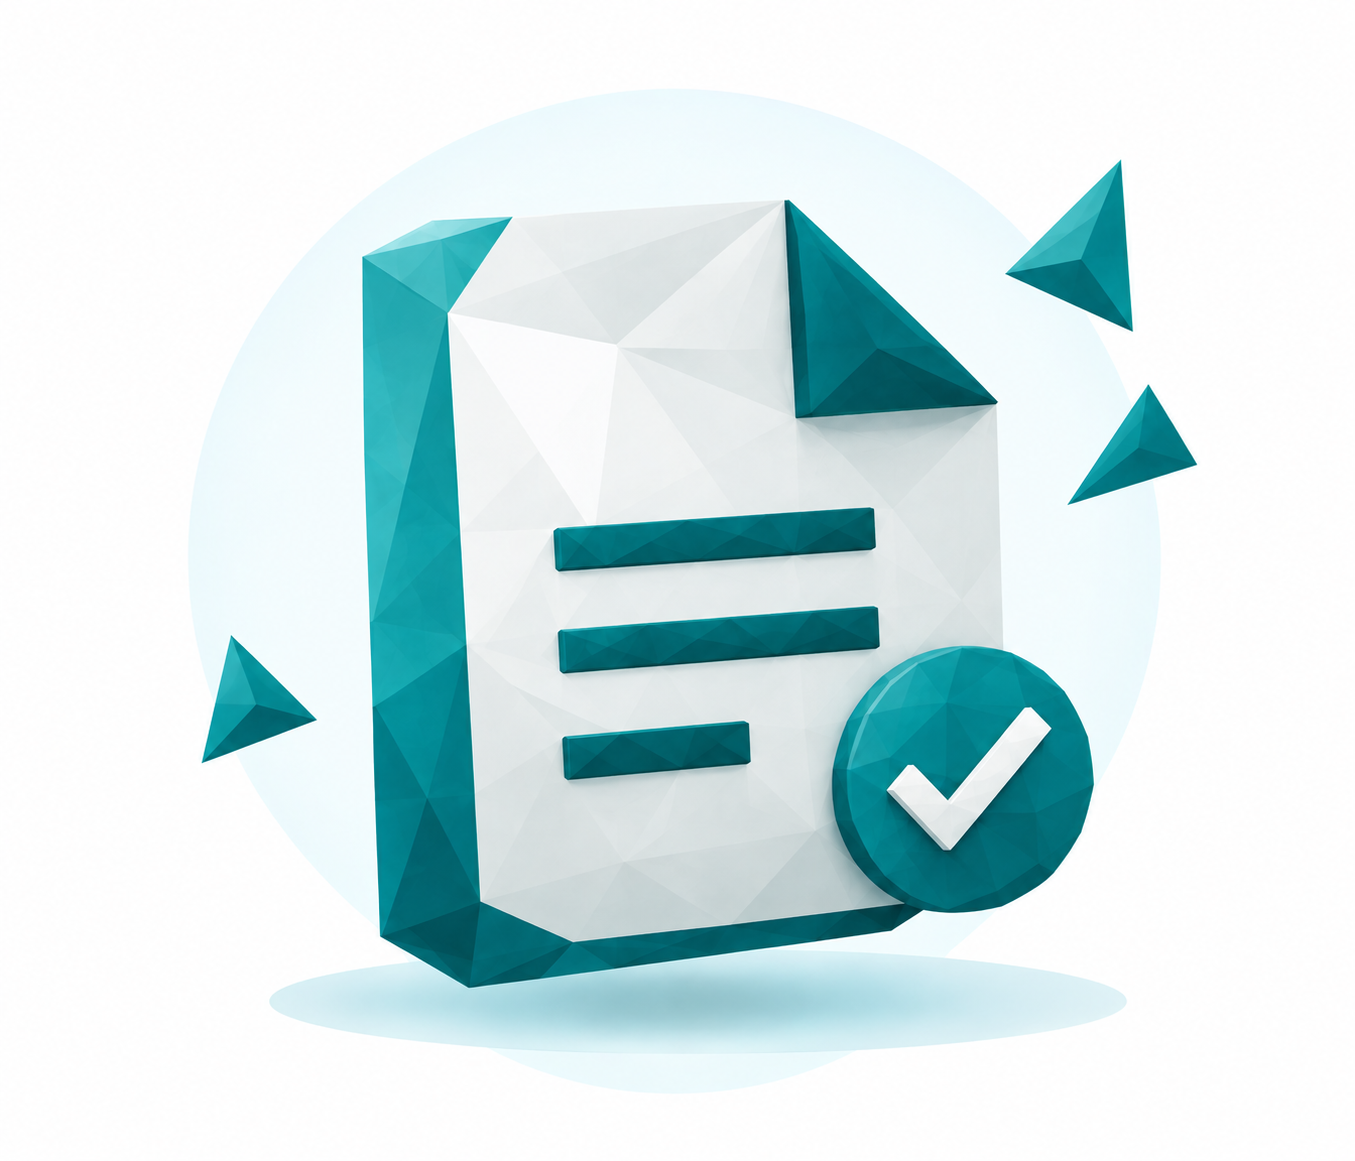
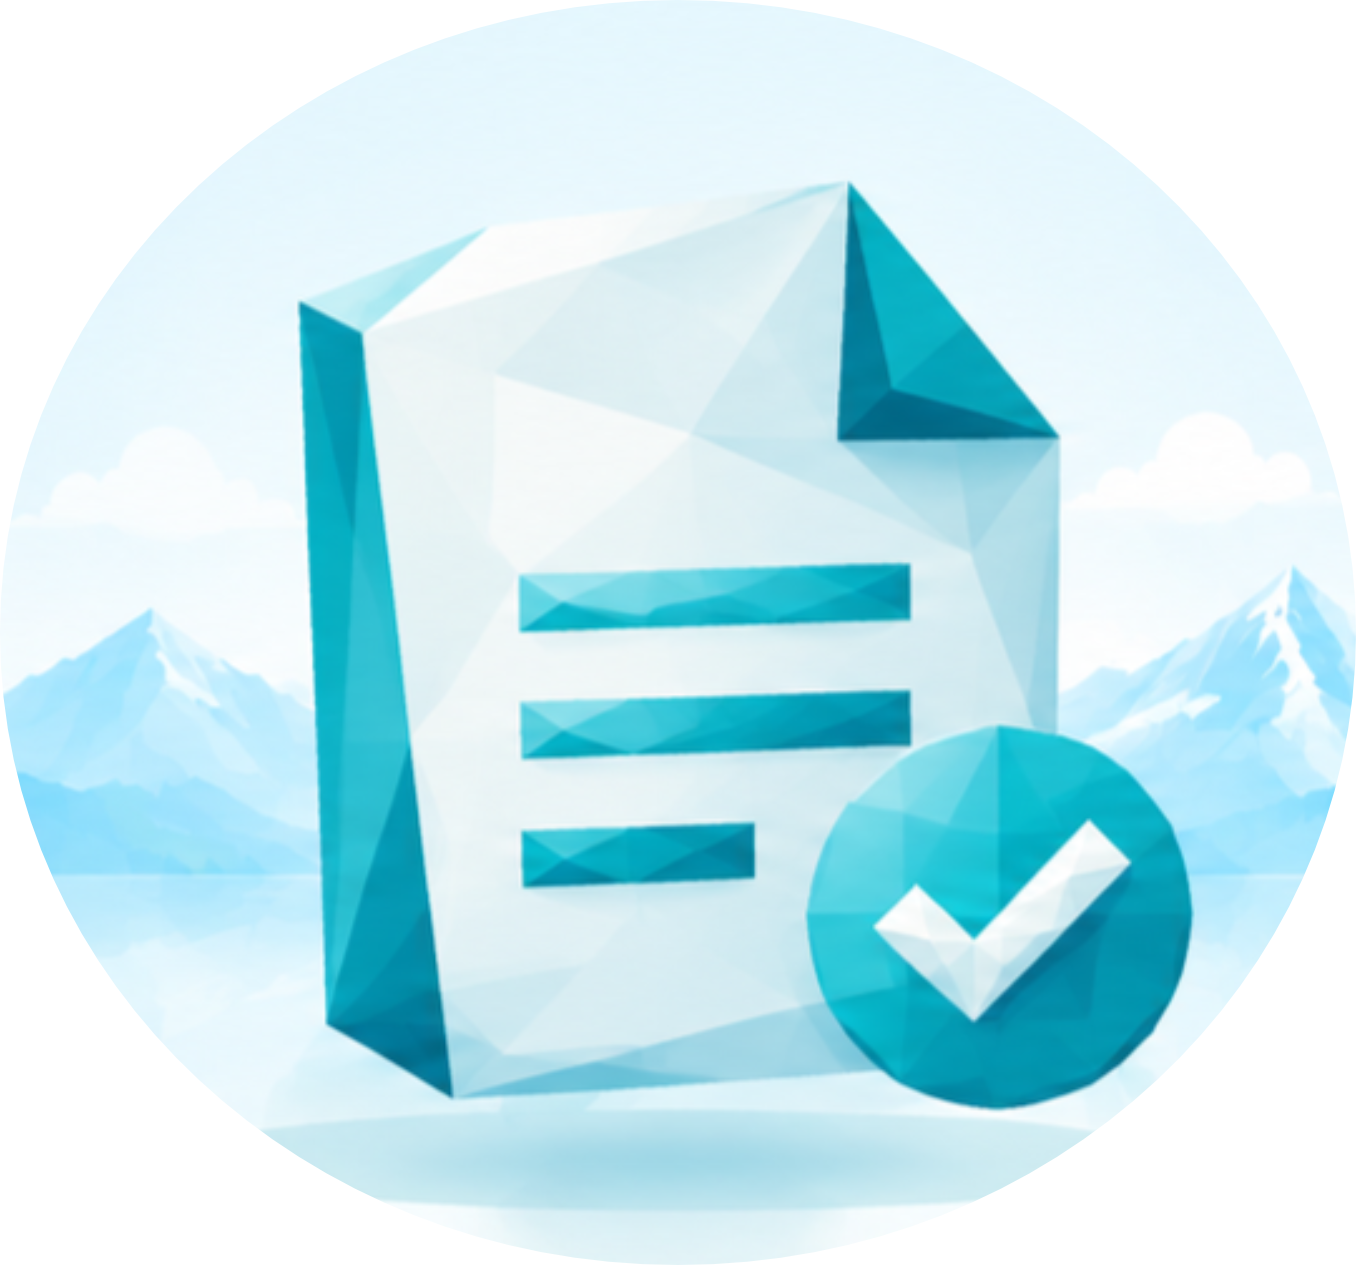
done

diff --git a/src/components/HomePageContent.tsx b/src/components/HomePageContent.tsx
@@ -1029,6 +1029,25 @@ export default function HomePageContent({ lang, locale }: { lang: InternalLangKe
           </div>
           {/* ▲▲▲ END HERO_STEP_1/2/3 ▲▲▲ */}
 
+          {/* HERO_STEP3_CTA_CONNECTOR — small decorative arrow in the
+              free space between Step 3's right edge (23%+11%=34%) and
+              the CTA's left edge (36%). Purely visual: aria-hidden,
+              pointerEvents:none, does not move Step 3 or the CTA. Kept
+              separate from HERO_DOTTED_CONNECTOR above (which only ever
+              spans step1→step3) rather than extending that line through
+              the CTA. */}
+          <div
+            className="hero-step3-cta-connector"
+            aria-hidden="true"
+            style={{
+              position: 'absolute' as const, left: '34.3%', top: '37%', width: 'clamp(16px,2vw,24px)', height: 'clamp(44px,5vw,56px)',
+              display: 'flex', alignItems: 'center', justifyContent: 'center' as const, pointerEvents: 'none' as const,
+              color: 'rgba(3,131,144,0.55)', fontSize: 'clamp(16px,2vw,22px)', lineHeight: 1,
+            }}
+          >
+            →
+          </div>
+
           {/* =========================================================
               HERO_CTA
               Its own left/top/width (no longer positioned relative to a
@@ -1046,9 +1065,9 @@ export default function HomePageContent({ lang, locale }: { lang: InternalLangKe
             style={{
               position: 'absolute' as const, left: '36%', top: '37%', width: '17%', height: 'clamp(44px,5vw,56px)',
               display: 'flex', alignItems: 'center', justifyContent: 'center' as const, textAlign: 'center' as const,
-              background: '#038390', border: '1px solid #038390', borderRadius: 10, boxShadow: '0 2px 6px rgba(3,131,144,0.25)',
-              fontFamily: 'DM Sans, sans-serif', fontSize: 'clamp(11px,1.15vw,14px)', fontWeight: 700, color: '#FFFFFF', textDecoration: 'none',
-              lineHeight: 1.25, padding: '4px 8px', boxSizing: 'border-box' as const,
+              background: '#038390', border: '1px solid #026B76', borderRadius: 13, boxShadow: '0 5px 14px rgba(0,0,0,0.14)',
+              fontFamily: 'DM Sans, sans-serif', fontSize: 'clamp(13px,1.6vw,17px)', fontWeight: 700, color: '#FFFFFF', textDecoration: 'none',
+              lineHeight: 1.25, padding: '10px 18px', boxSizing: 'border-box' as const,
             }}
           >
             {t.hero.cta}

diff --git a/src/styles/globals.css b/src/styles/globals.css
@@ -221,15 +221,19 @@ body {
    per-locale-shared coordinates, kept as inline styles) — inline styles
    otherwise always win over a plain class rule, including on :hover. */
 .hero-cta {
-  transition: background-color 200ms ease, transform 200ms ease, box-shadow 200ms ease;
+  transition: background-color 180ms ease, transform 180ms ease, box-shadow 180ms ease;
 }
 .hero-cta:hover {
   background: #026B76 !important;
-  transform: translateY(-1px);
-  box-shadow: 0 4px 10px rgba(3,131,144,0.32) !important;
+  transform: translateY(-2px);
+  box-shadow: 0 8px 18px rgba(0,0,0,0.18) !important;
 }
 .hero-cta:active {
   transform: translateY(0);
+}
+.hero-cta:focus-visible {
+  outline: 2px solid #026B76;
+  outline-offset: 2px;
 }
 
 /* Dropdown animation */
@@ -501,8 +505,9 @@ body {
     object-position: center center !important;
   }
 
-  /* ── HERO — decorative connector, hidden on mobile ── */
-  .hero-dotted-connector {
+  /* ── HERO — decorative connectors, hidden on mobile ── */
+  .hero-dotted-connector,
+  .hero-step3-cta-connector {
     display: none !important;
   }
 
